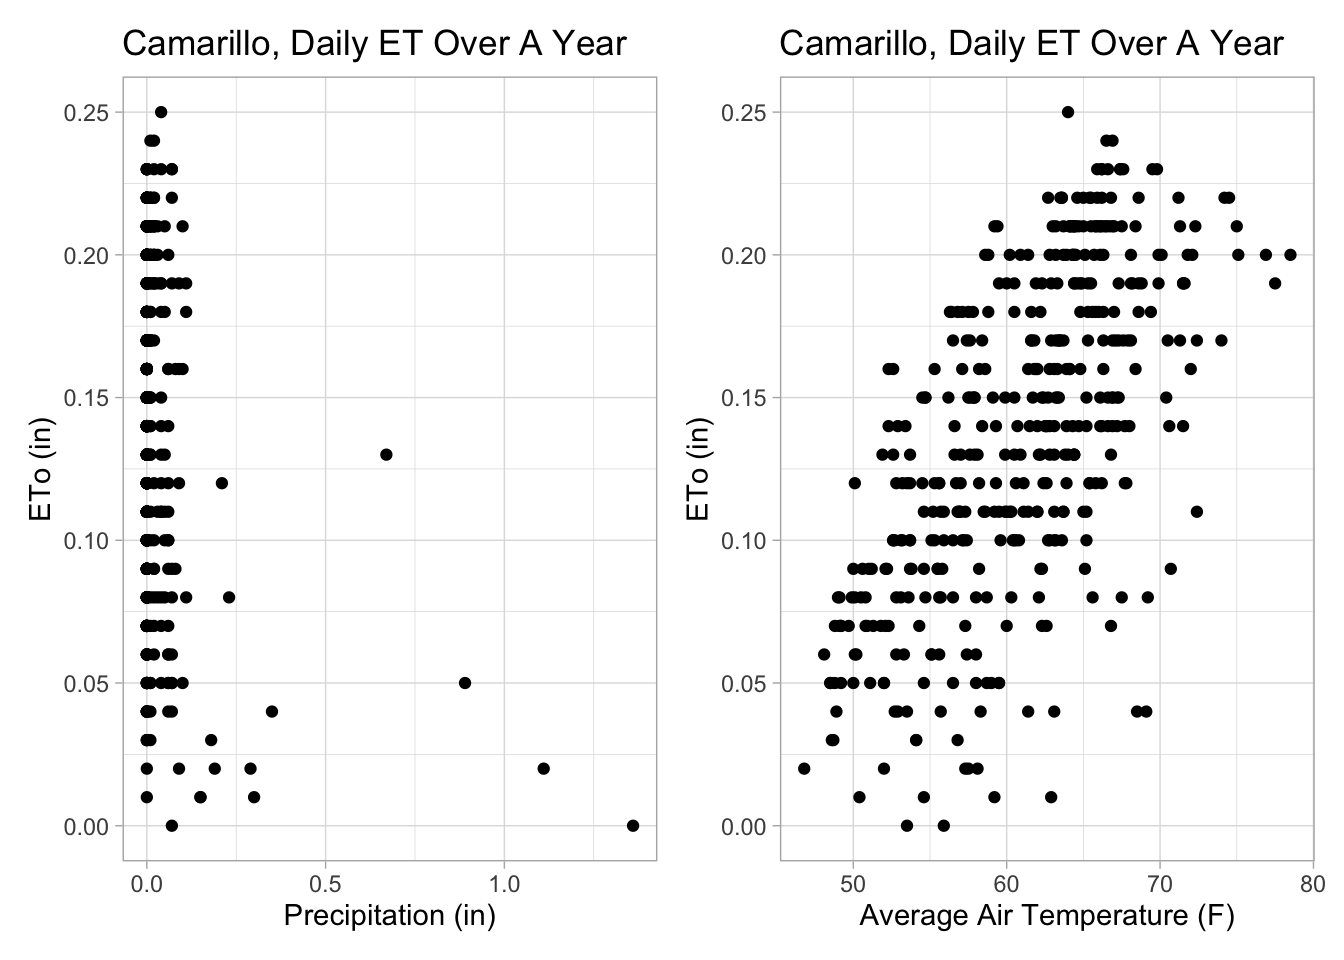
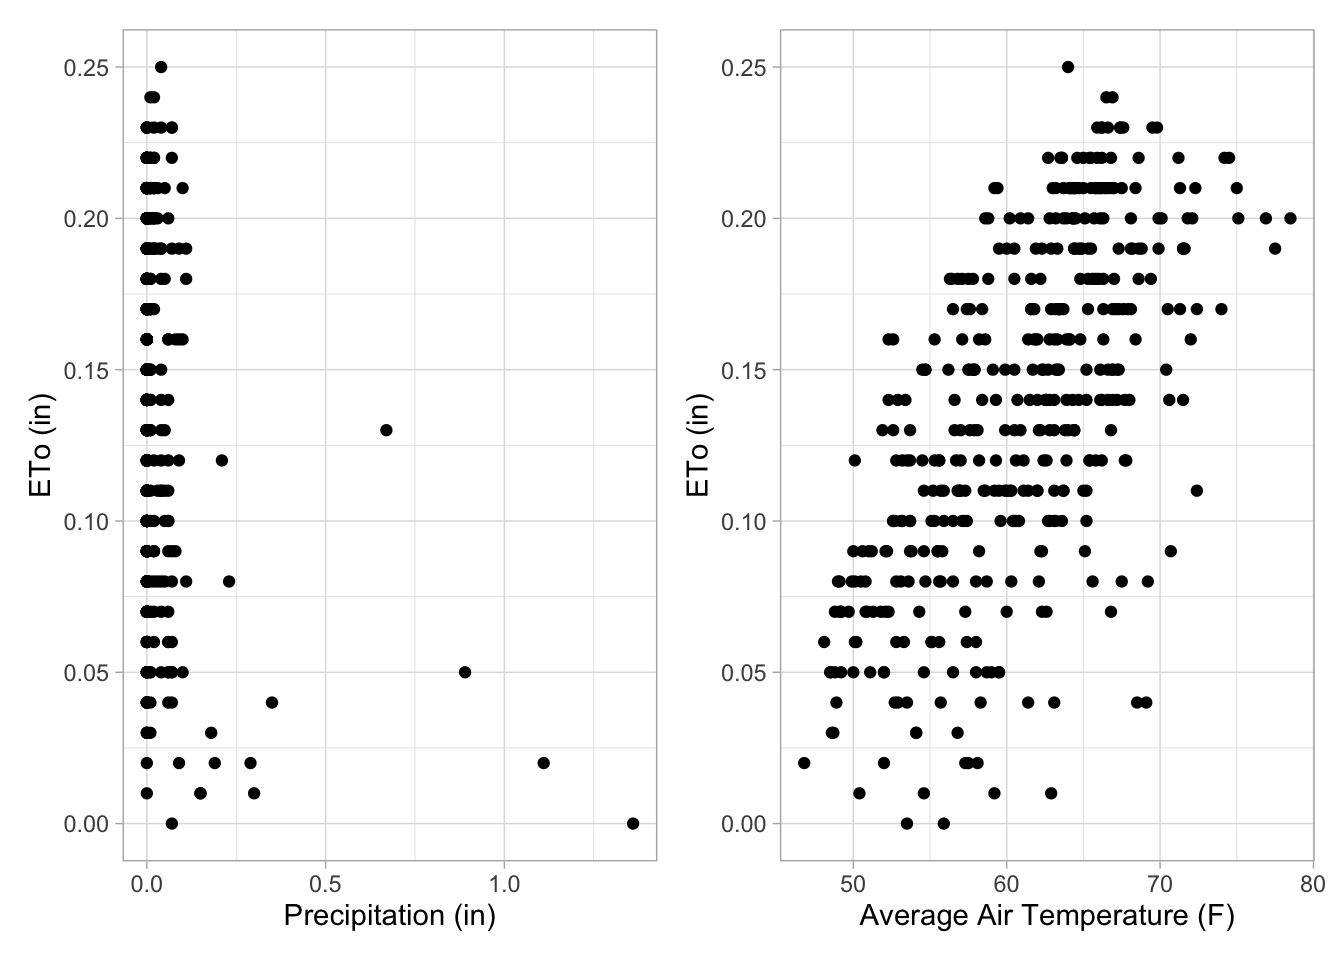
Removed titles on preliminary visuals.

diff --git a/docs/blog_post/eddy_co_blog_stats_222/index.html b/docs/blog_post/eddy_co_blog_stats_222/index.html
@@ -530,19 +530,21 @@ HA : \beta_2 &gt; 0
 <summary>Code</summary>
 <div class="code-copy-outer-scaffold"><div class="sourceCode cell-code" id="cb8"><pre class="sourceCode r code-with-copy"><code class="sourceCode r"><span id="cb8-1"><a href="#cb8-1" aria-hidden="true" tabindex="-1"></a>map1<span class="ot">&lt;-</span> <span class="fu">ggplot</span>(<span class="at">data =</span> daily, <span class="fu">aes</span>(<span class="at">x =</span> precip_in, <span class="at">y =</span> e_to_in)) <span class="sc">+</span></span>
 <span id="cb8-2"><a href="#cb8-2" aria-hidden="true" tabindex="-1"></a>  <span class="fu">geom_point</span>() <span class="sc">+</span></span>
-<span id="cb8-3"><a href="#cb8-3" aria-hidden="true" tabindex="-1"></a>  <span class="fu">labs</span>(<span class="at">title =</span> <span class="st">"Camarillo, Daily ET Over A Year"</span>,</span>
-<span id="cb8-4"><a href="#cb8-4" aria-hidden="true" tabindex="-1"></a>       <span class="at">x =</span> <span class="st">"Precipitation (in)"</span>,</span>
-<span id="cb8-5"><a href="#cb8-5" aria-hidden="true" tabindex="-1"></a>       <span class="at">y =</span> <span class="st">"ETo (in)"</span>)<span class="sc">+</span></span>
-<span id="cb8-6"><a href="#cb8-6" aria-hidden="true" tabindex="-1"></a>  <span class="fu">theme_light</span>()</span>
-<span id="cb8-7"><a href="#cb8-7" aria-hidden="true" tabindex="-1"></a></span>
-<span id="cb8-8"><a href="#cb8-8" aria-hidden="true" tabindex="-1"></a>map2<span class="ot">&lt;-</span><span class="fu">ggplot</span>(<span class="at">data =</span> daily, <span class="fu">aes</span>(<span class="at">x =</span> avg_air_temp_f, <span class="at">y =</span> e_to_in)) <span class="sc">+</span></span>
-<span id="cb8-9"><a href="#cb8-9" aria-hidden="true" tabindex="-1"></a>  <span class="fu">geom_point</span>() <span class="sc">+</span></span>
-<span id="cb8-10"><a href="#cb8-10" aria-hidden="true" tabindex="-1"></a>  <span class="fu">labs</span>(<span class="at">title =</span> <span class="st">"Camarillo, Daily ET Over A Year"</span>,</span>
-<span id="cb8-11"><a href="#cb8-11" aria-hidden="true" tabindex="-1"></a>       <span class="at">x =</span> <span class="st">"Average Air Temperature (F)"</span>,</span>
-<span id="cb8-12"><a href="#cb8-12" aria-hidden="true" tabindex="-1"></a>       <span class="at">y =</span> <span class="st">"ETo (in)"</span>)<span class="sc">+</span></span>
-<span id="cb8-13"><a href="#cb8-13" aria-hidden="true" tabindex="-1"></a>  <span class="fu">theme_light</span>()</span>
-<span id="cb8-14"><a href="#cb8-14" aria-hidden="true" tabindex="-1"></a></span>
-<span id="cb8-15"><a href="#cb8-15" aria-hidden="true" tabindex="-1"></a>(map1<span class="sc">+</span>map2)</span></code></pre></div><button title="Copy to Clipboard" class="code-copy-button"><i class="bi"></i></button></div>
+<span id="cb8-3"><a href="#cb8-3" aria-hidden="true" tabindex="-1"></a>  <span class="fu">labs</span>(</span>
+<span id="cb8-4"><a href="#cb8-4" aria-hidden="true" tabindex="-1"></a>    <span class="co">#title = "Camarillo, Daily ETo (in) Over A Year",</span></span>
+<span id="cb8-5"><a href="#cb8-5" aria-hidden="true" tabindex="-1"></a>       <span class="at">x =</span> <span class="st">"Precipitation (in)"</span>,</span>
+<span id="cb8-6"><a href="#cb8-6" aria-hidden="true" tabindex="-1"></a>       <span class="at">y =</span> <span class="st">"ETo (in)"</span>)<span class="sc">+</span></span>
+<span id="cb8-7"><a href="#cb8-7" aria-hidden="true" tabindex="-1"></a>  <span class="fu">theme_light</span>()</span>
+<span id="cb8-8"><a href="#cb8-8" aria-hidden="true" tabindex="-1"></a></span>
+<span id="cb8-9"><a href="#cb8-9" aria-hidden="true" tabindex="-1"></a>map2<span class="ot">&lt;-</span><span class="fu">ggplot</span>(<span class="at">data =</span> daily, <span class="fu">aes</span>(<span class="at">x =</span> avg_air_temp_f, <span class="at">y =</span> e_to_in)) <span class="sc">+</span></span>
+<span id="cb8-10"><a href="#cb8-10" aria-hidden="true" tabindex="-1"></a>  <span class="fu">geom_point</span>() <span class="sc">+</span></span>
+<span id="cb8-11"><a href="#cb8-11" aria-hidden="true" tabindex="-1"></a>  <span class="fu">labs</span>(</span>
+<span id="cb8-12"><a href="#cb8-12" aria-hidden="true" tabindex="-1"></a>    <span class="co">#title = "Camarillo, Daily ETo (in) Over A Year",</span></span>
+<span id="cb8-13"><a href="#cb8-13" aria-hidden="true" tabindex="-1"></a>       <span class="at">x =</span> <span class="st">"Average Air Temperature (F)"</span>,</span>
+<span id="cb8-14"><a href="#cb8-14" aria-hidden="true" tabindex="-1"></a>       <span class="at">y =</span> <span class="st">"ETo (in)"</span>)<span class="sc">+</span></span>
+<span id="cb8-15"><a href="#cb8-15" aria-hidden="true" tabindex="-1"></a>  <span class="fu">theme_light</span>()</span>
+<span id="cb8-16"><a href="#cb8-16" aria-hidden="true" tabindex="-1"></a></span>
+<span id="cb8-17"><a href="#cb8-17" aria-hidden="true" tabindex="-1"></a>(map1<span class="sc">+</span>map2)</span></code></pre></div><button title="Copy to Clipboard" class="code-copy-button"><i class="bi"></i></button></div>
 </details>
 <div class="cell-output-display">
 <div>
@@ -555,27 +557,29 @@ HA : \beta_2 &gt; 0
 <summary>Code</summary>
 <div class="code-copy-outer-scaffold"><div class="sourceCode cell-code" id="cb9"><pre class="sourceCode r code-with-copy"><code class="sourceCode r"><span id="cb9-1"><a href="#cb9-1" aria-hidden="true" tabindex="-1"></a>map3 <span class="ot">&lt;-</span> <span class="fu">ggplot</span>(<span class="at">data =</span> eto, <span class="fu">aes</span>(<span class="at">x =</span> date, <span class="at">y =</span> avg_e_to_in)) <span class="sc">+</span></span>
 <span id="cb9-2"><a href="#cb9-2" aria-hidden="true" tabindex="-1"></a>  <span class="fu">geom_point</span>() <span class="sc">+</span></span>
-<span id="cb9-3"><a href="#cb9-3" aria-hidden="true" tabindex="-1"></a>  <span class="fu">labs</span>(<span class="at">title =</span> <span class="st">"Camarillo, ET Over A Year"</span>,</span>
-<span id="cb9-4"><a href="#cb9-4" aria-hidden="true" tabindex="-1"></a>       <span class="at">x =</span> <span class="st">"Date"</span>,</span>
-<span id="cb9-5"><a href="#cb9-5" aria-hidden="true" tabindex="-1"></a>       <span class="at">y =</span> <span class="st">"Average ETo (in)"</span>) <span class="sc">+</span></span>
-<span id="cb9-6"><a href="#cb9-6" aria-hidden="true" tabindex="-1"></a>  <span class="fu">scale_x_date</span>(</span>
-<span id="cb9-7"><a href="#cb9-7" aria-hidden="true" tabindex="-1"></a>    <span class="at">date_breaks =</span> <span class="st">"1 month"</span>,</span>
-<span id="cb9-8"><a href="#cb9-8" aria-hidden="true" tabindex="-1"></a>    <span class="at">date_labels =</span> <span class="st">"%b"</span>) <span class="sc">+</span></span>
-<span id="cb9-9"><a href="#cb9-9" aria-hidden="true" tabindex="-1"></a>  <span class="fu">theme_light</span>() <span class="sc">+</span></span>
-<span id="cb9-10"><a href="#cb9-10" aria-hidden="true" tabindex="-1"></a>  <span class="fu">theme</span>(<span class="at">axis.text.x =</span> <span class="fu">element_text</span>(<span class="at">angle =</span> <span class="dv">40</span>, <span class="at">hjust =</span> <span class="dv">1</span>))</span>
-<span id="cb9-11"><a href="#cb9-11" aria-hidden="true" tabindex="-1"></a></span>
-<span id="cb9-12"><a href="#cb9-12" aria-hidden="true" tabindex="-1"></a>map4 <span class="ot">&lt;-</span> <span class="fu">ggplot</span>(<span class="at">data =</span> daily, <span class="fu">aes</span>(<span class="at">x =</span> date, <span class="at">y =</span> avg_air_temp_f)) <span class="sc">+</span></span>
-<span id="cb9-13"><a href="#cb9-13" aria-hidden="true" tabindex="-1"></a>  <span class="fu">geom_point</span>() <span class="sc">+</span></span>
-<span id="cb9-14"><a href="#cb9-14" aria-hidden="true" tabindex="-1"></a>  <span class="fu">labs</span>(<span class="at">title =</span> <span class="st">"Camarillo, Daily Temp Over A Year"</span>,</span>
-<span id="cb9-15"><a href="#cb9-15" aria-hidden="true" tabindex="-1"></a>       <span class="at">y =</span> <span class="st">"Average Air Temperature (F)"</span>,</span>
-<span id="cb9-16"><a href="#cb9-16" aria-hidden="true" tabindex="-1"></a>       <span class="at">x =</span> <span class="st">"Date"</span>) <span class="sc">+</span></span>
-<span id="cb9-17"><a href="#cb9-17" aria-hidden="true" tabindex="-1"></a>  <span class="fu">scale_x_date</span>(</span>
-<span id="cb9-18"><a href="#cb9-18" aria-hidden="true" tabindex="-1"></a>    <span class="at">date_breaks =</span> <span class="st">"1 month"</span>,</span>
-<span id="cb9-19"><a href="#cb9-19" aria-hidden="true" tabindex="-1"></a>    <span class="at">date_labels =</span> <span class="st">"%b"</span>) <span class="sc">+</span></span>
-<span id="cb9-20"><a href="#cb9-20" aria-hidden="true" tabindex="-1"></a>  <span class="fu">theme_light</span>() <span class="sc">+</span></span>
-<span id="cb9-21"><a href="#cb9-21" aria-hidden="true" tabindex="-1"></a>  <span class="fu">theme</span>(<span class="at">axis.text.x =</span> <span class="fu">element_text</span>(<span class="at">angle =</span> <span class="dv">40</span>, <span class="at">hjust =</span> <span class="dv">1</span>))</span>
-<span id="cb9-22"><a href="#cb9-22" aria-hidden="true" tabindex="-1"></a></span>
-<span id="cb9-23"><a href="#cb9-23" aria-hidden="true" tabindex="-1"></a>(map3 <span class="sc">+</span> map4)</span></code></pre></div><button title="Copy to Clipboard" class="code-copy-button"><i class="bi"></i></button></div>
+<span id="cb9-3"><a href="#cb9-3" aria-hidden="true" tabindex="-1"></a>  <span class="fu">labs</span>(</span>
+<span id="cb9-4"><a href="#cb9-4" aria-hidden="true" tabindex="-1"></a>    <span class="co">#title = "Camarillo, ETo (in) Over A Year",</span></span>
+<span id="cb9-5"><a href="#cb9-5" aria-hidden="true" tabindex="-1"></a>       <span class="at">x =</span> <span class="st">"Date"</span>,</span>
+<span id="cb9-6"><a href="#cb9-6" aria-hidden="true" tabindex="-1"></a>       <span class="at">y =</span> <span class="st">"Average ETo (in)"</span>) <span class="sc">+</span></span>
+<span id="cb9-7"><a href="#cb9-7" aria-hidden="true" tabindex="-1"></a>  <span class="fu">scale_x_date</span>(</span>
+<span id="cb9-8"><a href="#cb9-8" aria-hidden="true" tabindex="-1"></a>    <span class="at">date_breaks =</span> <span class="st">"1 month"</span>,</span>
+<span id="cb9-9"><a href="#cb9-9" aria-hidden="true" tabindex="-1"></a>    <span class="at">date_labels =</span> <span class="st">"%b"</span>) <span class="sc">+</span></span>
+<span id="cb9-10"><a href="#cb9-10" aria-hidden="true" tabindex="-1"></a>  <span class="fu">theme_light</span>() <span class="sc">+</span></span>
+<span id="cb9-11"><a href="#cb9-11" aria-hidden="true" tabindex="-1"></a>  <span class="fu">theme</span>(<span class="at">axis.text.x =</span> <span class="fu">element_text</span>(<span class="at">angle =</span> <span class="dv">40</span>, <span class="at">hjust =</span> <span class="dv">1</span>))</span>
+<span id="cb9-12"><a href="#cb9-12" aria-hidden="true" tabindex="-1"></a></span>
+<span id="cb9-13"><a href="#cb9-13" aria-hidden="true" tabindex="-1"></a>map4 <span class="ot">&lt;-</span> <span class="fu">ggplot</span>(<span class="at">data =</span> daily, <span class="fu">aes</span>(<span class="at">x =</span> date, <span class="at">y =</span> avg_air_temp_f)) <span class="sc">+</span></span>
+<span id="cb9-14"><a href="#cb9-14" aria-hidden="true" tabindex="-1"></a>  <span class="fu">geom_point</span>() <span class="sc">+</span></span>
+<span id="cb9-15"><a href="#cb9-15" aria-hidden="true" tabindex="-1"></a>  <span class="fu">labs</span>(</span>
+<span id="cb9-16"><a href="#cb9-16" aria-hidden="true" tabindex="-1"></a>    <span class="co">#title = "Camarillo, Daily Temp Over A Year",</span></span>
+<span id="cb9-17"><a href="#cb9-17" aria-hidden="true" tabindex="-1"></a>       <span class="at">y =</span> <span class="st">"Average Air Temperature (F)"</span>,</span>
+<span id="cb9-18"><a href="#cb9-18" aria-hidden="true" tabindex="-1"></a>       <span class="at">x =</span> <span class="st">"Date"</span>) <span class="sc">+</span></span>
+<span id="cb9-19"><a href="#cb9-19" aria-hidden="true" tabindex="-1"></a>  <span class="fu">scale_x_date</span>(</span>
+<span id="cb9-20"><a href="#cb9-20" aria-hidden="true" tabindex="-1"></a>    <span class="at">date_breaks =</span> <span class="st">"1 month"</span>,</span>
+<span id="cb9-21"><a href="#cb9-21" aria-hidden="true" tabindex="-1"></a>    <span class="at">date_labels =</span> <span class="st">"%b"</span>) <span class="sc">+</span></span>
+<span id="cb9-22"><a href="#cb9-22" aria-hidden="true" tabindex="-1"></a>  <span class="fu">theme_light</span>() <span class="sc">+</span></span>
+<span id="cb9-23"><a href="#cb9-23" aria-hidden="true" tabindex="-1"></a>  <span class="fu">theme</span>(<span class="at">axis.text.x =</span> <span class="fu">element_text</span>(<span class="at">angle =</span> <span class="dv">40</span>, <span class="at">hjust =</span> <span class="dv">1</span>))</span>
+<span id="cb9-24"><a href="#cb9-24" aria-hidden="true" tabindex="-1"></a></span>
+<span id="cb9-25"><a href="#cb9-25" aria-hidden="true" tabindex="-1"></a>(map3 <span class="sc">+</span> map4)</span></code></pre></div><button title="Copy to Clipboard" class="code-copy-button"><i class="bi"></i></button></div>
 </details>
 <div class="cell-output-display">
 <div>

diff --git a/docs/blog_post.html b/docs/blog_post.html
@@ -214,7 +214,7 @@ window.Quarto = {
 
 <div class="quarto-listing quarto-listing-container-grid" id="listing-listing">
 <div class="list grid quarto-listing-cols-3">
-<div class="g-col-1" data-index="0" data-categories="UXVhcnRvJTJDUiUyQ01FRFM=" data-listing-date-sort="1765353600000" data-listing-file-modified-sort="1765404303398" data-listing-date-modified-sort="NaN" data-listing-reading-time-sort="17" data-listing-word-count-sort="3218">
+<div class="g-col-1" data-index="0" data-categories="UXVhcnRvJTJDUiUyQ01FRFM=" data-listing-date-sort="1765353600000" data-listing-file-modified-sort="1765405235547" data-listing-date-modified-sort="NaN" data-listing-reading-time-sort="17" data-listing-word-count-sort="3237">
 <a href="./blog_post/eddy_co_blog_stats_222/index.html" class="quarto-grid-link">
 <div class="quarto-grid-item card h-100 card-left">
 <p class="card-img-top">
